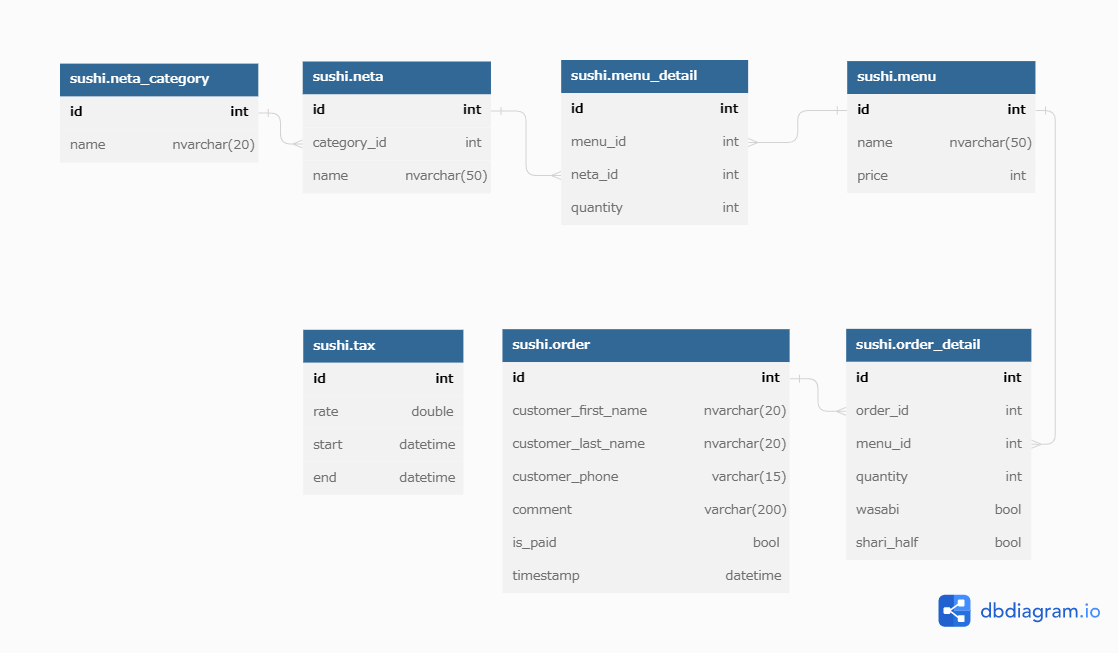
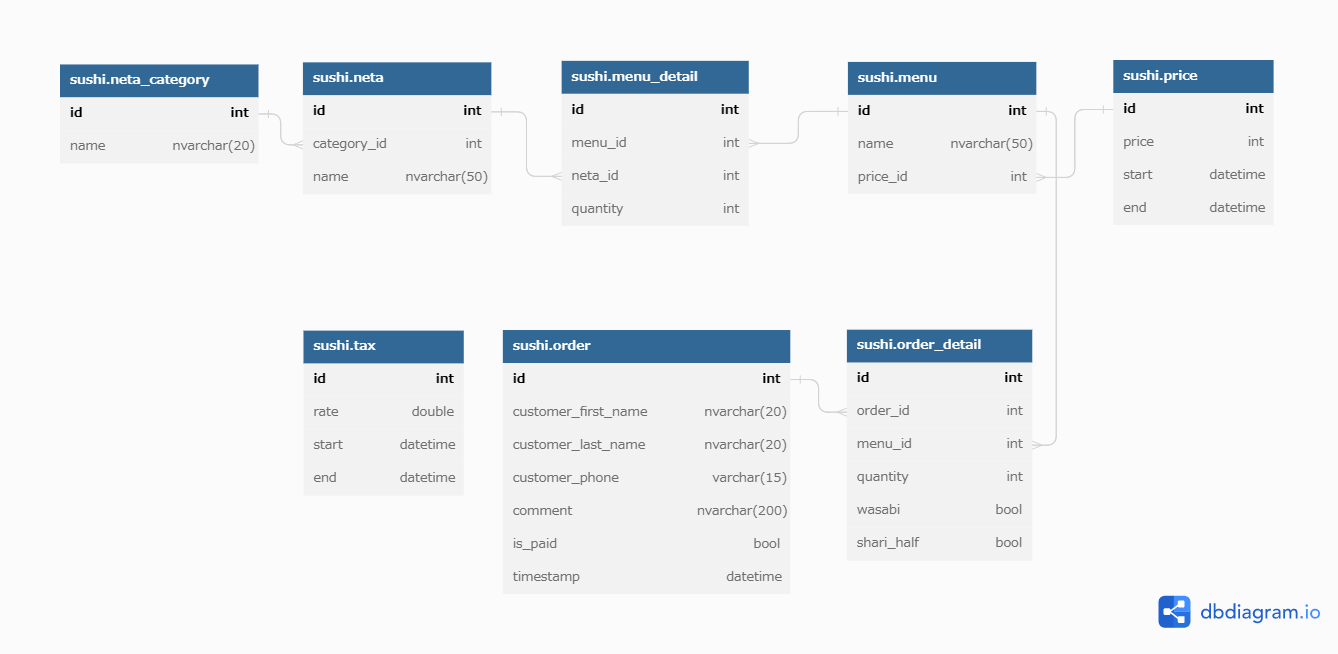
modify task2 scheme

diff --git a/V7MJmZWjeSaB1L/01_db_modeling_1/task2/README.md b/V7MJmZWjeSaB1L/01_db_modeling_1/task2/README.md
@@ -11,6 +11,9 @@
 ある商品がセット商品であるか知るためにsushi.menu_itemまで遡る必要がある。ただし、これはsushi.menuの属性にセット商品であるかどうかのフラグを追加することで解決可能である。
 ## 見直し
 その後、設計細部の見直しを行った。以下に示すものが暫定版のスキーマである。
+### 主な見直し箇所
+* 価格の変更が生じた場合に、過去の売上の集計ができなくなる問題を解消
+* 消費税率が変更された場合に、過去の売上の集計ができなくなる問題を解消
 ### E-R図
 ![E-R図3](image3.png)
 ## 各テーブルの説明
@@ -35,7 +38,13 @@
 注文可能なメニューを管理する
 * id: メニューID
 * name: メニュー名
+* price_id: 価格ID
+### sushi.priceテーブル
+メニューの値段を管理する
+* id: 価格ID
 * price: 価格
+* start: 適用開始日時
+* end: 適用終了日時
 ### sushi.menu_detailテーブル
 各メニューに含まれるネタを管理する
 * id
@@ -51,6 +60,12 @@
 ネタのカテゴリを管理する
 * id: カテゴリID
 * name: カテゴリ名
+### sushi.taxテーブル
+消費税参照用テーブル
+* id
+* rate: 税込/税抜
+* start: 適用開始日時
+* end: 適用終了日時
 
 ## 疑問点
-sushi.order_detailテーブル、sushi.menu_detailテーブルのidカラムは正規化の観点から見ると不要だが、残すべきだろうか(DBMSによって自動でレコードにidが割り振られる事がない場合)？消去した場合、カラムの全体集合が主キーと一致するが、パフォーマンス上の影響はどうだろうか？
+sushi.order_detailテーブル、sushi.menu_detailテーブルのidカラムは正規化の観点から見ると不要だが、(DBMSによって自動でレコードにidが割り振られる事がない場合)残すべきだろうか？消去した場合、カラムの全体集合が主キーと一致するが、パフォーマンス上の影響はどうだろうか？
